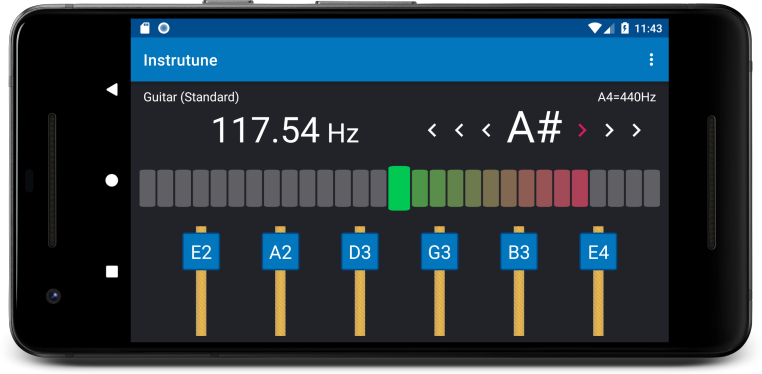
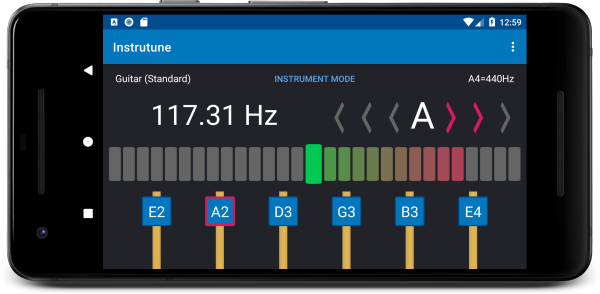
Update screenshots and README.md

diff --git a/README.md b/README.md
@@ -15,11 +15,13 @@ As well as tunings for:
 
 The tuner allows you to adjust the middle A frequency, allowing you to tune to A = 432 Hz and other tunings. The app also has a feature that allows you to create custom tunings. [Download the beta version on Google Play.](https://play.google.com/store/apps/details?id=tech.ajsf.instrutune)
 
-![Screenshot](.github/screenshot1.png)&nbsp;&nbsp;&nbsp;&nbsp;![Screenshot](.github/TuningDown.gif)
+![Screenshot](.github/screenshot1.png)&nbsp;&nbsp;&nbsp;&nbsp;![Screenshot](.github/screenshot-chromatic.png)
 
 ![Screenshot](.github/screenshot4.png)
 
-![Screenshot](.github/Tuning.gif)&nbsp;&nbsp;&nbsp;&nbsp;![Screenshot](.github/screenshot7.png)
+![Screenshot](.github/TuningDown.gif)&nbsp;&nbsp;&nbsp;&nbsp;![Screenshot](.github/Tuning.gif)
+
+![Screenshot](.github/screenshot5.png)&nbsp;&nbsp;&nbsp;&nbsp;![Screenshot](.github/screenshot7.png)
 
 ![Screenshot](.github/SelectInstrument.gif)&nbsp;&nbsp;&nbsp;&nbsp;![Screenshot](.github/Custom.gif)
 
